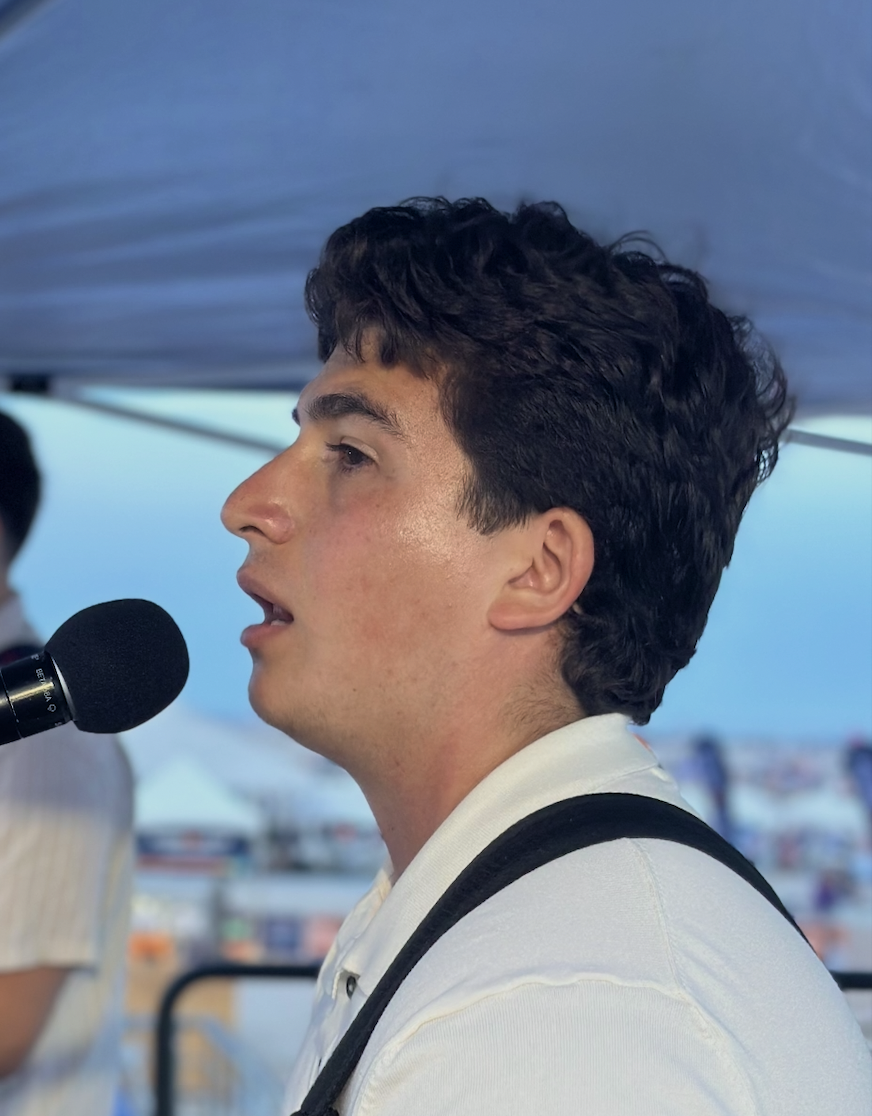
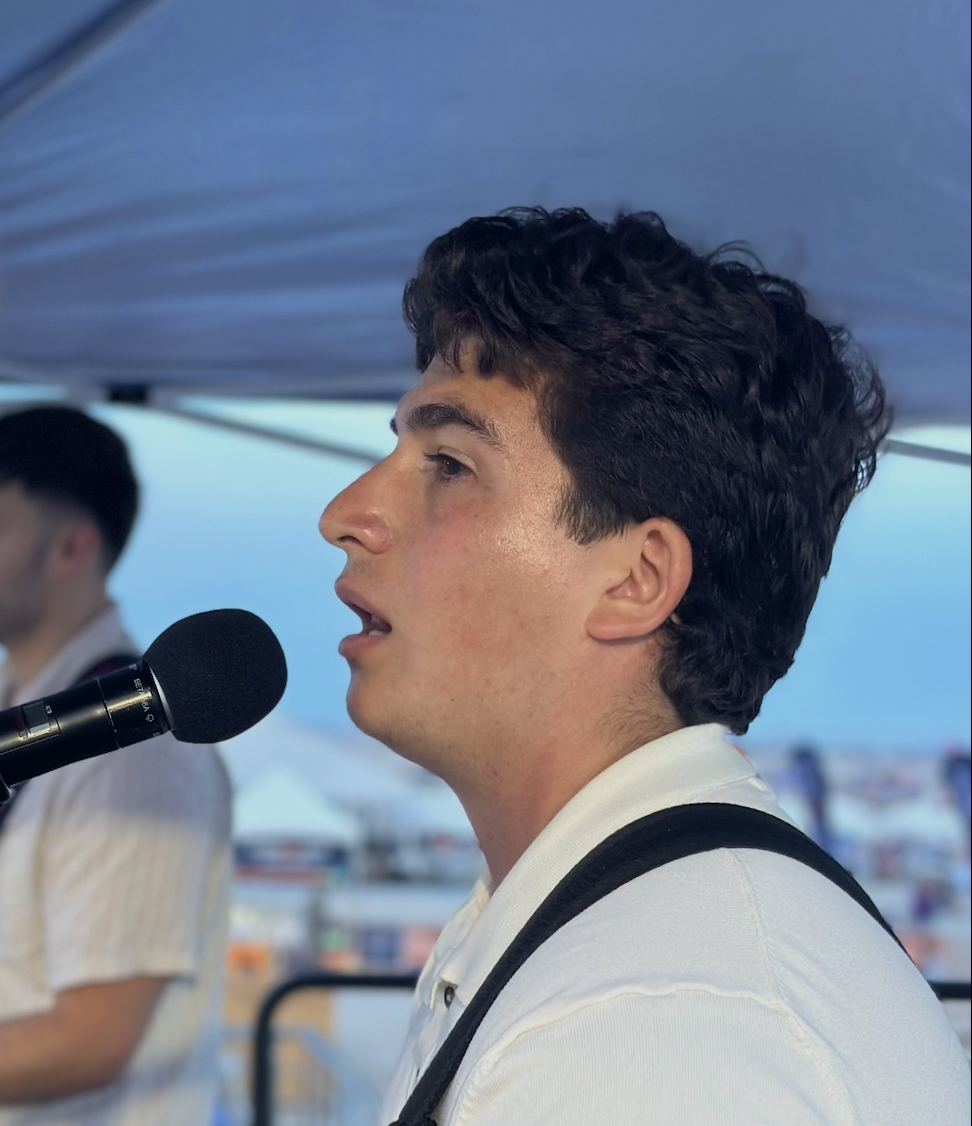
updates

diff --git a/index.html b/index.html
@@ -16,7 +16,7 @@
       }
 
       .home-section {
-        background: #E4C58A url('./Home.png') center center/cover no-repeat;
+        background: #E4C58A center center/cover no-repeat;
         padding: 40px 0;
         width: 100%;
         box-sizing: border-box;
@@ -259,7 +259,7 @@
     color: #fff;
   }
 }
-    }
+    
 
       /* Section IDs for navigation */
       .home-section { scroll-margin-top: 60px; }
@@ -310,6 +310,27 @@
     margin: 0 auto;     /* centers the div */
 }
 
+.social-links {
+    display: flex;
+    justify-content: center;
+    gap: 20px;
+    margin-top: 18px;
+    flex-wrap: wrap;
+}
+
+.social-links a {
+    color: #FFF8EB;
+    text-decoration: none;
+    font-family: "Nunito", sans-serif;
+    font-size: 1em;
+    font-weight: 600;
+    transition: opacity 0.2s;
+}
+
+.social-links a:hover {
+    opacity: 0.7;
+}
+
 /* Mobile responsiveness */
 @media (max-width: 600px) {
     .logo-box {
@@ -343,10 +364,19 @@
 		<br>
 		<br>
 		<br>
-      <div class="logo-box">
+     <div class="logo-box">
     <img src="./Logo.png"
         style="width:450px; max-width:90%; height:auto; filter: brightness(0) invert(1); display:block; margin:0 auto;">
+
+    <div class="social-links">
+        <a href="https://linktr.ee/evanandjamesmusic" target="_blank" rel="noopener">LinkTree</a>
+        <a href="https://www.tiktok.com/@evanandjamesmusic" target="_blank" rel="noopener">TikTok</a>
+        <a href="https://www.instagram.com/evanandjamesmusic/" target="_blank" rel="noopener">Instagram</a>
+        <a href="https://www.youtube.com/@evanandjamesmusic" target="_blank" rel="noopener">YouTube</a>
+        <a href="https://m.facebook.com/evanandjamesmusic/" target="_blank" rel="noopener">Facebook</a>
+    </div>
 </div>
+ <!--
         <br>
         <br>
         <div class="calendar-container">
@@ -360,7 +390,7 @@
                 loading="lazy">
             </iframe>
         </div>
-      
+   -->
         <div class="calendar-container">
             <a href="https://open.spotify.com/album/6CcX0XlovafRr0uU4aUuLL" 
 			target="_blank" 
@@ -384,36 +414,9 @@
 			"
 			onmouseover="this.style.background='#14833b'" 
 			onmouseout="this.style.background='#2d9838'">
-			Stream Our New Album "Endless Possibilities"
+			Stream Our Newest Album "Endless Possibilities"
 			</a>
         </div>
-
-    <div class="calendar-container">
-    <a href="https://evanandjames.printful.me/" 
-       target="_blank" 
-       rel="noopener noreferrer"
-       style="
-            display: inline-block;
-            max-width: 90%;
-            box-sizing: border-box;
-            padding: 12px 24px;
-            background: #FFF8EB;
-            color: #000000;
-            text-align: center;
-            border-radius: 32px;
-            text-decoration: none;
-            font-family: 'Nunito', sans-serif;
-            font-size: 1em;
-            font-weight: 600;
-            margin: 24px auto 0 auto;
-            box-shadow: 0 2px 8px rgba(0,0,0,0.10);
-            transition: background 0.2s;
-       "
-       onmouseover="this.style.background='#fff5e2'" 
-       onmouseout="this.style.background='#FFF8EB'">
-       Evan & James Merchandise
-    </a>
-  </div>
     </a>
   </div>
 </div>
@@ -436,7 +439,7 @@
     <div class="about-section" id="about">
       <h1 class="dark-title">About Us</h1>
       <p>
-        We are <b>Evan & James</b>, an acoustic duo based on Long Island, NY. We perform popular music from throughout the decades including 60s/70s Classic Rock, R&B, Folk, Country, Today's Hits, and more.
+        We are <b>Evan & James</b>, a local band from Long Island, NY. We perform popular music from throughout the decades including 60s/70s Classic Rock, R&B, Folk, Country, Today's Hits, and more.
       </p>
       <p>
         Click <a href="https://docs.google.com/document/d/1zbZYQphuig4Fskcs9W9gKYLwMkzATHosJL4WD1gmxkU/edit?usp=sharing" target="_blank" rel="noopener">here</a> to view our entire repertoire of songs.
@@ -450,7 +453,7 @@
           <div class="caption">Christopher Evan</div>
         </div>
         <div class="profile">
-          <img src="./A2.png" alt="Andrew James">
+          <img src="./Andrew.png" alt="Andrew James">
           <div class="caption">Andrew James</div>
         </div>
       </div>
